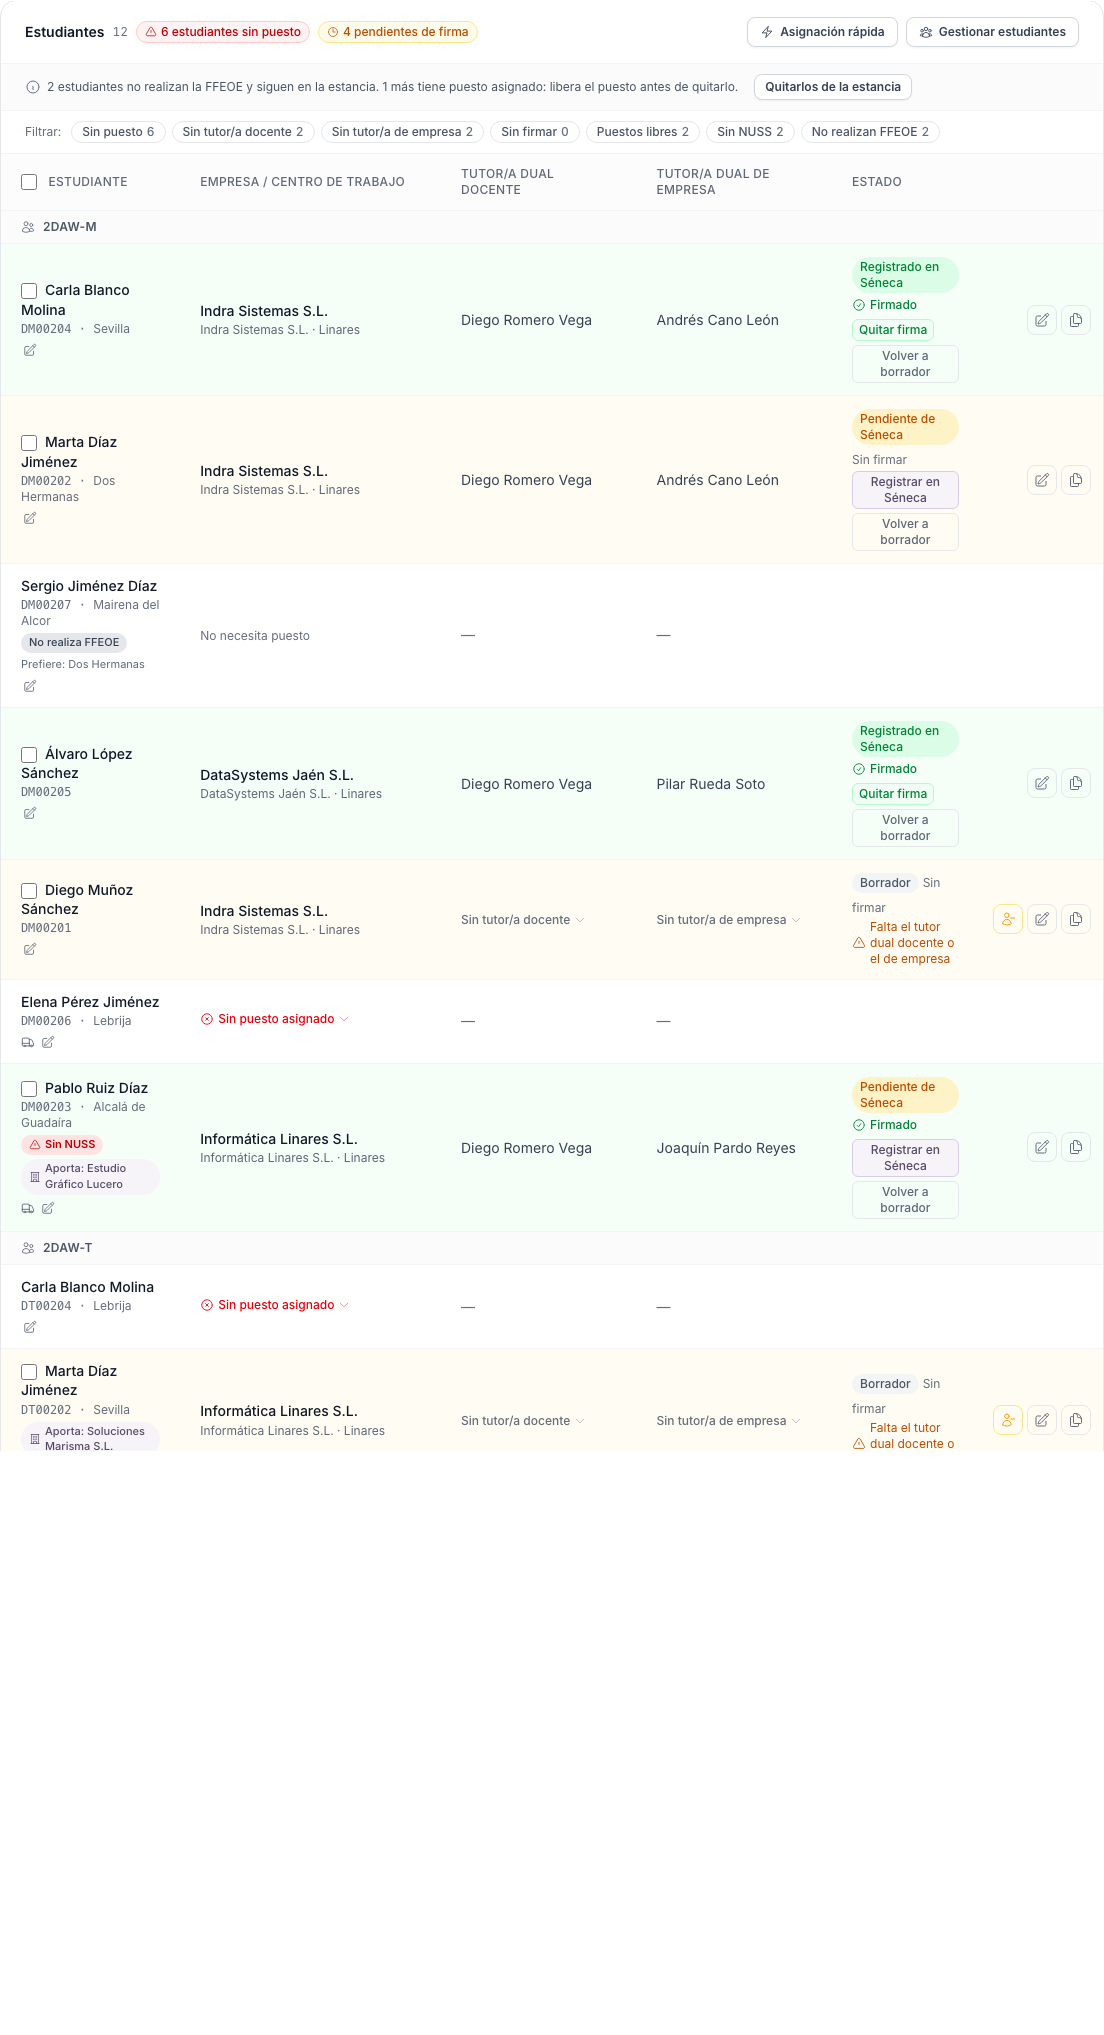
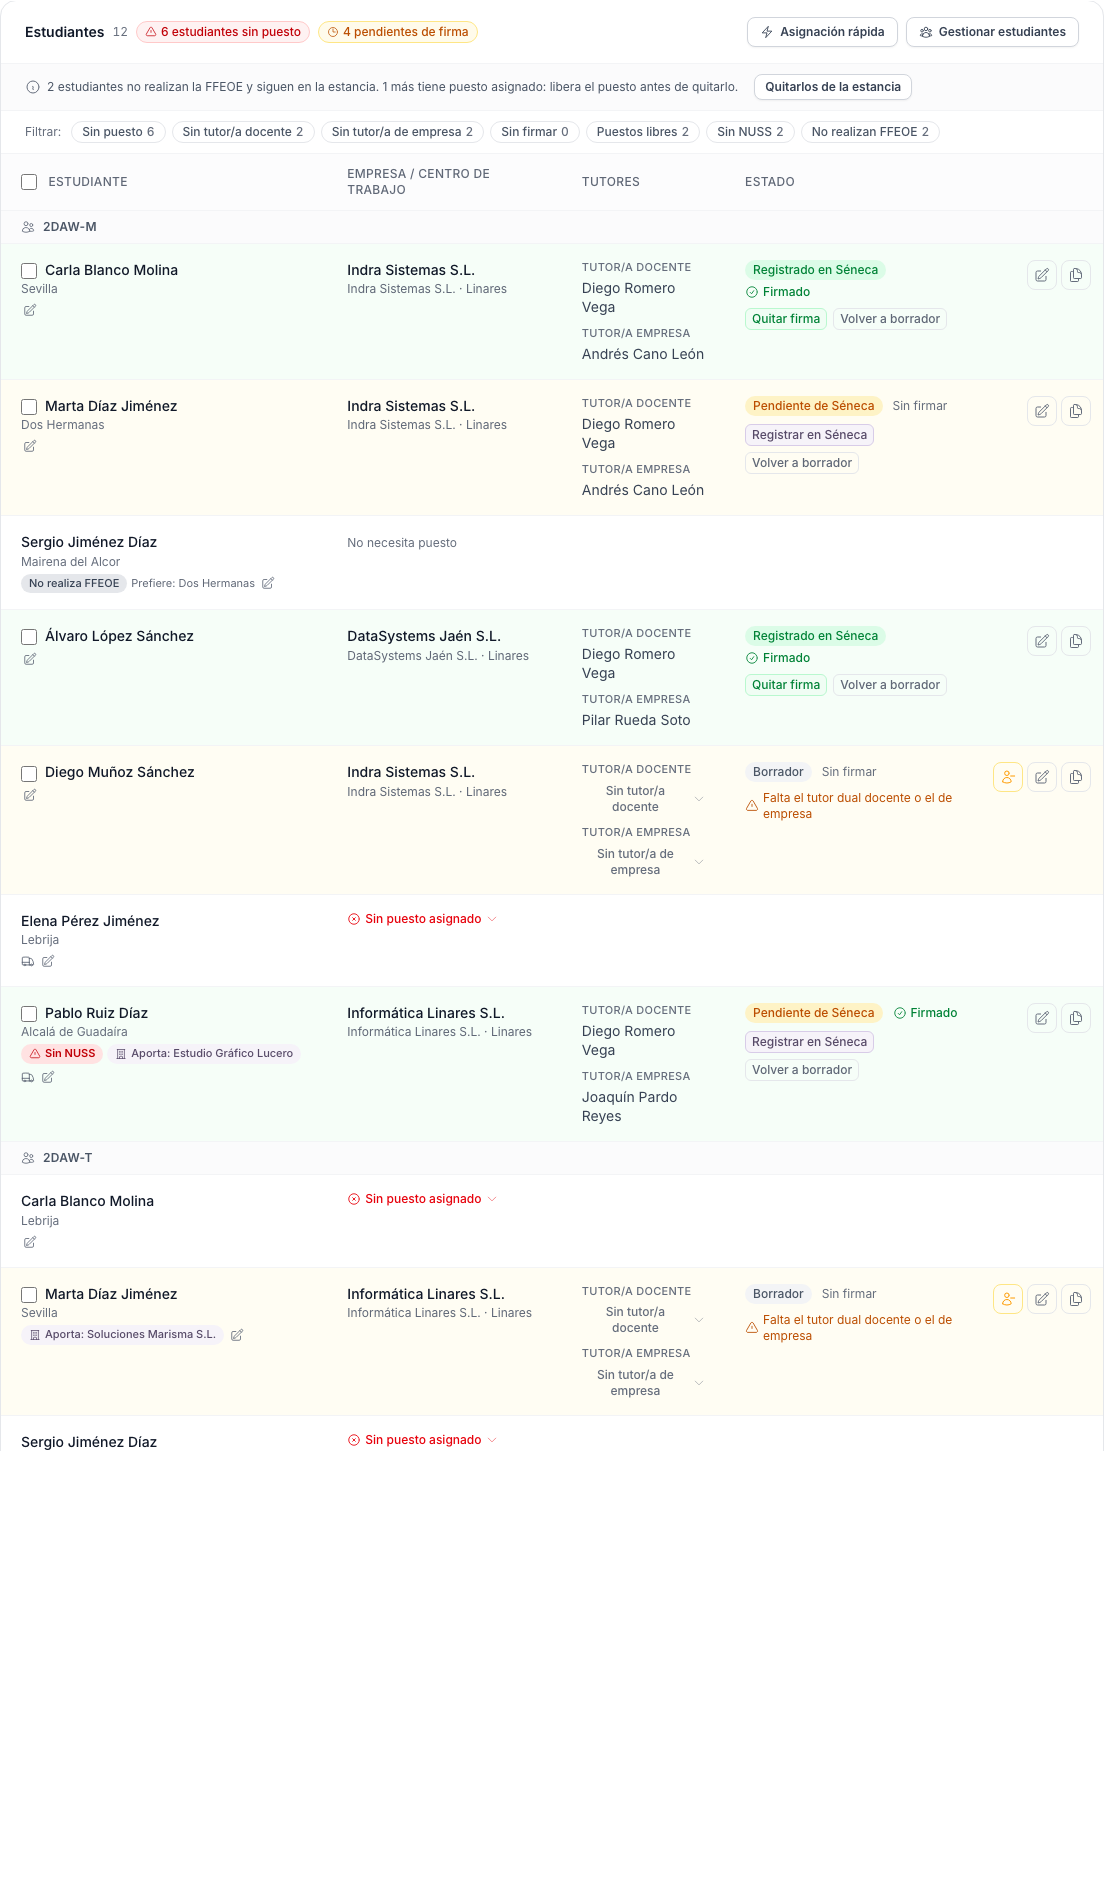
refactor(stays): tabla de asignaciones más legible y NIE fuera de todos los listados
La tabla de la estancia agrupa los dos tutores en una columna con su etiqueta, reparte el
estado y sus acciones en horizontal, quita los anchos fijos que apretaban el nombre y
da más espacio vertical a las filas. El NIE deja de mostrarse en cualquier listado
(lista de la estancia, matrícula, lista de estudiantes, selector del puesto, búsqueda
global y exportaciones): solo se ve en la ficha del estudiante.

Claude-Session: https://claude.ai/code/session_01Q8R8uUPa8Fsi2RwKV4XKcs

diff --git a/src/Controller/StayController.php b/src/Controller/StayController.php
@@ -566,7 +566,6 @@ class StayController extends AbstractController
             $rows[] = [
                 $student?->getName()->getLastName() ?? '',
                 $student?->getName()->getFirstName() ?? '',
-                $student?->getStudentId() ?? '',
                 $stay->getName(),
                 $stay->getStartDate()->format('d/m/Y'),
                 $groups,
@@ -581,7 +580,6 @@ class StayController extends AbstractController
             [
                 $this->t('stays.export_pending.col.last_name'),
                 $this->t('stays.export_pending.col.first_name'),
-                $this->t('stays.export.col.nie'),
                 $this->t('stays.pending.col.stay'),
                 $this->t('stays.pending.col.start_date'),
                 $this->t('stays.pending.col.group'),
@@ -628,16 +626,12 @@ class StayController extends AbstractController
                 continue;
             }
             $profile    = $student !== null ? ($profiles[$student->getId()->toRfc4122()] ?? null) : null;
-            // El NIE solo lo ve la coordinación del alumno cuando la estancia reúne varias enseñanzas.
-            $showNie = $student !== null
-                && ($stay->getProgrammes()->count() < 2 || $this->scope->canManageStudent($actor, $stay, $student));
-            $tutor      = $position->getAcademicTutor();
+            $tutor     = $position->getAcademicTutor();
             $mentor     = $position->getWorkplaceMentor();
             $workcenter = $position->getWorkcenter();
 
             $rows[] = [
                 $student !== null ? $student->getName()->getLastName() . ', ' . $student->getName()->getFirstName() : '',
-                $showNie ? $student->getStudentId() : '',
                 $position->getProgrammeNames(),
                 $workcenter?->getCompany()->getName() ?? '',
                 $workcenter?->getName() ?? '',
@@ -662,7 +656,6 @@ class StayController extends AbstractController
             'estancia-' . $slug . '-' . $this->clock->now()->format('Y-m-d') . '.xlsx',
             [
                 $this->t('stays.show.col.student'),
-                $this->t('stays.export.col.nie'),
                 $this->t('stays.export.col.programme'),
                 $this->t('stays.export.col.company'),
                 $this->t('stays.export.col.workcenter'),

diff --git a/tests/Integration/Controller/StayMultiProgrammeControllerTest.php b/tests/Integration/Controller/StayMultiProgrammeControllerTest.php
@@ -502,7 +502,7 @@ class StayMultiProgrammeControllerTest extends ControllerTestCase
         }
     }
 
-    public function testExportIncludesProgrammeColumnAndHidesForeignNie(): void
+    public function testExportIncludesProgrammeColumnAndNeverTheNie(): void
     {
         $s = $this->makeScenario();
         $s['shared']->setStudent($s['damStudent']);
@@ -517,7 +517,7 @@ class StayMultiProgrammeControllerTest extends ControllerTestCase
         self::assertContains('Enseñanza', $values);
         self::assertContains('DAW', $values);
         self::assertContains('DAM', $values);
-        self::assertContains('NIE-DAW', $values);
+        self::assertNotContains('NIE-DAW', $values);
         self::assertNotContains('NIE-DAM', $values);
     }
 

diff --git a/tests/Integration/Controller/StayControllerTest.php b/tests/Integration/Controller/StayControllerTest.php
@@ -1476,7 +1476,7 @@ class StayControllerTest extends ControllerTestCase
 
         $values = $this->parseXlsxResponse();
         self::assertContains('Empresa Test S.L.', $values);
-        self::assertContains('2024-001', $values);
+        self::assertNotContains('2024-001', $values, 'el NIE solo se muestra en la ficha del estudiante');
     }
 
     /** @return list<string> all non-empty cell values from the first sheet */

diff --git a/CHANGELOG.md b/CHANGELOG.md
@@ -18,7 +18,8 @@ and this project adheres to [Semantic Versioning](https://semver.org/spec/v2.0.0
 ### Changed
 
 - Quien no realiza la FFEOE deja de contar como «sin puesto» y sale del avance, la cobertura, los avisos y el reparto de tutorías por docente; no se le puede asignar un puesto mientras no cambie su ficha.
-- El NIE ya no se muestra en los listados de la interfaz (lista de la estancia, matrícula de la estancia, lista de estudiantes, selector de estudiante del puesto y búsqueda global): solo en la ficha del estudiante. Las exportaciones lo siguen incluyendo.
+- El NIE ya no se muestra en ningún listado: ni en la lista de la estancia, la matrícula de la estancia, la lista de estudiantes, el selector de estudiante del puesto o la búsqueda global, ni en el Excel de la estancia y el de firmas pendientes. Solo se ve en la ficha del estudiante.
+- La tabla de asignaciones de la estancia respira más: los dos tutores comparten columna con su etiqueta, el estado y sus acciones se reparten en horizontal, las columnas ya no tienen anchos fijos que apretaban el nombre y las filas tienen más espacio vertical.
 
 ## [2.16.0] - 2026-10-18
 

diff --git a/docs/manual/99-glosario.md b/docs/manual/99-glosario.md
@@ -22,7 +22,7 @@ Términos que se usan a lo largo del manual y dentro de la aplicación.
 | **Nivel** | Cada curso de una enseñanza (1.º, 2.º…). |
 | **Grupo / Unidad** | Conjunto de estudiantes dentro de un nivel, con tutor/a y docentes asignados. «Unidad» es el nombre que usa Séneca para el grupo. |
 | **Estudiante** | Alumno/a matriculado, identificado por su **NIE**. |
-| **NIE** | Número de Identificación Escolar que identifica de forma única a cada estudiante. Solo se muestra en la ficha del estudiante, no en los listados de la interfaz. |
+| **NIE** | Número de Identificación Escolar que identifica de forma única a cada estudiante. Solo se muestra en la ficha del estudiante, nunca en listados ni exportaciones. |
 | **NUSS** | Número de la Seguridad Social. Sin él, un estudiante que realiza la FFEOE no puede hacer la estancia: la aplicación lo marca como **Sin NUSS**. |
 | **Ficha del estudiante** | Datos de un estudiante en un curso concreto: NUSS, si realiza la FFEOE, coche, empresa aportada, actitud y localidades de residencia y preferente. |
 

diff --git a/docs/manual/12-flujo-de-trabajo.md b/docs/manual/12-flujo-de-trabajo.md
@@ -128,9 +128,9 @@ Quien **no realiza la FFEOE**:
   vez (solo a los que no tienen puesto; los que ya lo tienen se señalan para liberar su puesto antes).
 - Si el estudiante **no tiene NUSS**, la aplicación avisa antes de asignarle un puesto y hay que confirmar.
 
-El **NIE** solo se muestra en la ficha del estudiante (Centro educativo → Estudiantes), no en los listados de
-la interfaz. El Excel de la estancia lo mantiene e incluye además las columnas NUSS, Realiza FFEOE, Coche,
-Empresa aportada y las dos localidades, pero nunca la actitud.
+El **NIE** solo se muestra en la ficha del estudiante (Centro educativo → Estudiantes): no aparece en ningún
+listado ni exportación. El Excel de la estancia incluye las columnas NUSS, Realiza FFEOE, Coche, Empresa
+aportada y las dos localidades, pero nunca la actitud.
 
 ## 4 — Estados del puesto y tramitación en Séneca
 

diff --git a/docs/manual/22-primeros-pasos.md b/docs/manual/22-primeros-pasos.md
@@ -139,7 +139,7 @@ encontrado* o *Grupo no encontrado*. Las filas repetidas se unen en una. Solo se
 
 Desde **Centro Educativo → Estudiantes** se dan de alta los estudiantes, manualmente o mediante
 **importación masiva por CSV desde Séneca**, y se distribuyen en sus grupos. El listado permite
-búsqueda por NIE o nombre, filtro por grupo y **exportación a Excel**.
+búsqueda por nombre, filtro por grupo y por ficha (sin NUSS, no realizan FFEOE) y **exportación a Excel**.
 
 ### Cómo exportar el CSV de Séneca (perfil Dirección)
 
